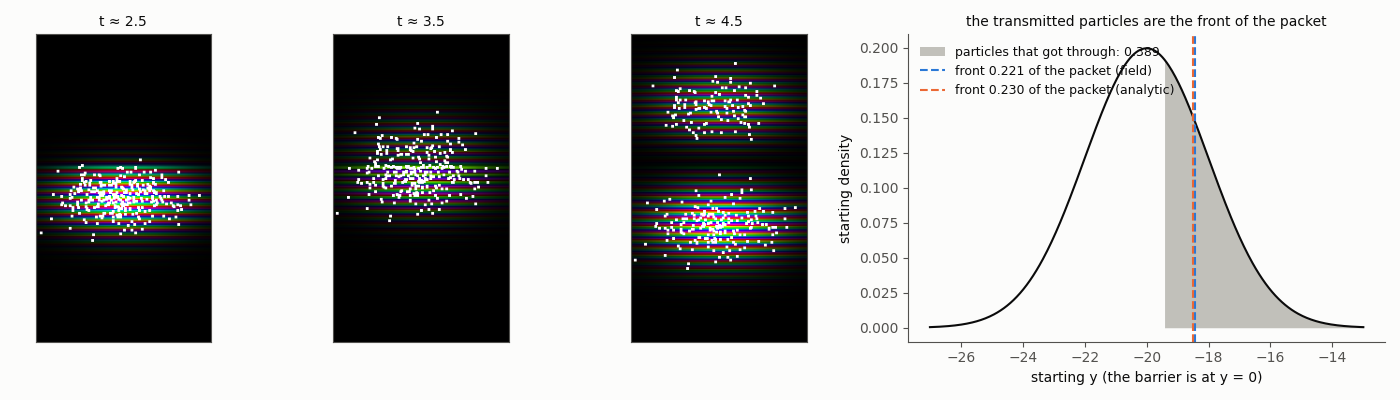
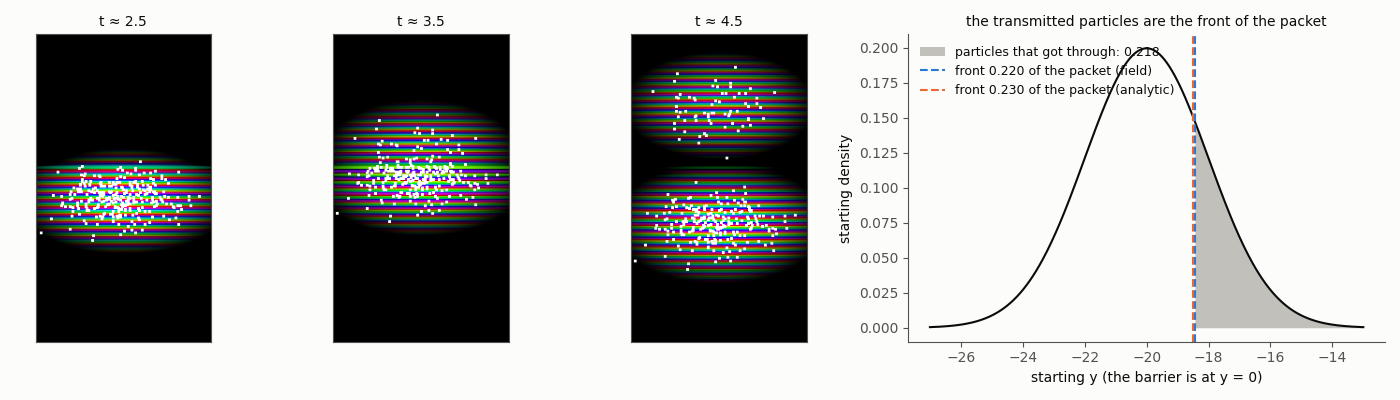
docs: results with the corrected guidance, numerics and live viewer

diff --git a/README.md b/README.md
@@ -62,20 +62,17 @@ sinc² envelope, times cos²θ for a cylindrical wave meeting a flat
 screen; with d/a = 4 there are orders at sin θ = m/4, at x = 0, ±7.7,
 ±17.2 and ±33.8.
 
-With 60000 particles, 7130 (0.1188) reach the screen against 0.1199 of
+With 60000 particles, 7066 (0.1178) reach the screen against 0.1195 of
 the probability, and the rest reflect. The current follows the
 Fraunhofer curve to 2.8% of the peak, rms, with its maxima at 0, ±7.6,
 ±16.4 and ±30.8 where the curve's are (the envelope pulls them in from
 the grating angles). Summed over each order the current is within 10%
 of the curve's in orders 0 to 2 and 28% above it in the faint third.
-The arrivals match the current in the first order to 3% and fall 12%
-and 20% short in the second and third; the central fringe gets 22% too
-many, all of them in the one bin just right of the axis. Those
-particles started in front of the wall, within a tenth of a wavelength
-of the right slit's inner edge, slid into the slit along the wall and
-then hugged the axis; that is the wall problem below. Of 20000
-classical particles, 2545 (0.127, the beam's share over the two slits
-is 0.126) arrive, every one within |x| < 3.
+The arrivals match the current to 1.5% in every order up to the
+second and to 7% in the faint third, 2.1% of the peak rms over the
+whole screen; no single bin is off by more than 6%. Of 20000 classical
+particles, 2545 (0.127, the beam's share over the two slits is 0.126)
+arrive, every one within |x| < 3.
 
 The figure at the top shows the quantum trails over the time-integrated
 density, the classical trails, and the screens. The quantum arrivals
@@ -107,14 +104,12 @@ dotted in the figure, and side lobes near x = ±30.
 
 ![Single slit: trails and the screen](images/single-slit.png)
 
-With 40000 particles, 5029 (0.1257) reach the screen against 0.1277
+With 40000 particles, 5097 (0.1274) reach the screen against 0.1271
 of the probability. The current follows the Fraunhofer curve to 1.8% of
 the peak, rms over the screen, with its minimum at x = 18.0 against
 17.2 (one bin of 0.8) where it falls to 0.7% of the peak, and side
 lobes within 4% of the curve's. The arrivals match the central lobe to
-2%, but the side lobes get 239 particles where the current predicts
-312: the particles that end there pass closest to the slit's edges,
-where the wall problem below most likely costs some of them.
+0.3% and the side lobes to 4%.
 
 ### Barrier
 
@@ -129,27 +124,24 @@ easily.
 ![Barrier: the packet splits; the front of it gets through](images/barrier.png)
 
 The analytic transmission is 0.2268 at k = 2π and 0.2301 averaged
-over the packet. The field agrees: 0.2210 of the probability crosses
-the screen, 4% below the average. The particles do not: 1554 of 4000,
-0.389, get through. This is a numerical failure of the guidance, not of
-the theory. In front of the barrier the incident and reflected waves
-(|r| = 0.88) make a standing wave whose near-nodes are about 0.02 wide,
-a fifth of a cell, where the true velocity reaches about 100; the
-phase-difference velocity saturates at π/(2dx) = 16 and smears the
-jump over the neighbouring cells, so particles cross the standing wave
-too fast. In a separate run of the barrier alone, halving the cells
-brings the particles from 0.379 to 0.263 against the field's 0.228;
-taking the velocity as j/ρ instead undershoots, 0.142 and 0.205.
+over the packet. The field agrees: 0.2199 of the probability crosses
+the screen, 4% below the average, the grid's slightly heavier
+effective mass along the motion accounting for most of the gap. The
+particles agree with the field: 873 of 4000, 0.2182, get through.
 
 The figure shows the packet splitting and, on the right, where the
 transmitted particles started. In one dimension Bohmian trajectories
 cannot cross, and this barrier is uniform in x, so the particles that
 get through are exactly the ones that started at the front of the
 packet. Which particle tunnels is decided by where it starts, not by
-any chance at the barrier. That order survives the faulty velocities:
-every transmitted particle started at y ≥ −19.399 and every reflected
-one at y ≤ −19.402, the front 39% of the packet. With the right
-guidance the split would sit at −18.46, the front 22%.
+any chance at the barrier: every transmitted particle started at
+y ≥ −18.432 and every reflected one at y ≤ −18.435, and the field's
+transmission puts the split at −18.46. Getting this right needed the
+velocity estimate described under Numerics: in front of the barrier
+the incident and reflected waves (|r| = 0.88) make a standing wave
+whose near-nodes are a fifth of a cell wide, and a velocity
+interpolated between cells let particles cross them, 0.389 of them
+getting through.
 
 ### Disc
 
@@ -172,13 +164,13 @@ shadow |x| < 4 where the field puts 4.0%, which is about what to expect
 of Kirchhoff's boundary conditions on an obstacle only eight
 wavelengths across.
 
-Quantum particles fill the shadow as the current does: 13282 of 20000
-(0.664) reach the screen against 0.659 of the probability, and 4.1% of
-the arrivals land inside |x| < 4. But almost none land on the bright
-line: 10 in the four bins around the axis, where the current puts 105.
-That is the wall problem below. The classical particles cast a sharp
-shadow: 12222 (0.611; the Gaussian beam has 0.617 outside |x| < 4)
-reach the screen, none inside |x| < 4.
+Quantum particles fill the shadow as the current does: 13095 of 20000
+(0.6548) reach the screen against 0.6559 of the probability, 3.9% of
+the arrivals land inside |x| < 4 against 4.0% of the current, and the
+four bins around the axis get 86% of the particles the current puts
+there. The classical particles cast a sharp shadow: 12222 (0.611; the
+Gaussian beam has 0.617 outside |x| < 4) reach the screen, none inside
+|x| < 4.
 
 ### Harmonic trap and ground state
 
@@ -218,10 +210,8 @@ parallel to them.
 
 ![Packet in a box](images/box.png)
 
-The norm ends at 0.9990 after t = 6 with nothing absorbing it. But
-1.7% of the particles end in or beside a wall, where only 0.43% of the
-probability is, and most of those are inside the wall itself. That is
-the wall problem described below.
+The norm ends at 0.9990 after t = 6 with nothing absorbing it. 0.8%
+of the particles end beside a wall, where 0.43% of the probability is.
 
 A free packet 1.5 wide crosses the domain and spreads as
 σ(t) = σ₀√(1 + (t/2σ₀²)²); each Bohmian particle keeps its place in the
@@ -236,30 +226,36 @@ k·dx = 0.63 the fourth-order Laplacian's dispersion has curvature
 0.976 instead of 1, an effective mass 2.5% heavier along the motion,
 which predicts 2.4613.
 
-### Known problems
+### Numerics
 
-Two faults in the guidance velocity, both in `src/wave.rs`, show in
-these runs.
+The guiding velocity is the probability current over the density,
+each interpolated between the four surrounding cells before dividing,
+with fourth order differences for the gradient so a plane wave at ten
+cells per wavelength comes out within 0.3%. Interpolating a velocity
+computed per cell instead, or the phase difference between
+neighbouring cells, smooths over the near-nodes of standing waves,
+where the density dips to nearly zero within a fraction of a cell and
+the velocity must soar to turn the particle back; particles then cross
+them, and the barrier's particle transmission came out 0.389 against
+the field's 0.220. Particles move in substeps of at most a quarter
+cell for the same reason. Where the wave meets a wall ψ is zero and so
+is the velocity. What remains is the grid's dispersion: at k·dx = 0.63
+the Laplacian's curvature is 0.976 instead of 1, an effective mass
+2.5% heavier along the motion, which the free packet and the barrier
+both show. Halving the cells would quarter that.
 
-Walls hand out spurious velocities. Wall cells hold signed zeros (the
-step multiplies them by 0), and the phase difference across a wall's
-edge is an `atan2` of products with those zeros. When the second
-argument sums to −0 the `atan2` returns ±π instead of 0: a velocity of
-±π/(2dx) = 16 normal to the wall, in up to a quarter of the cells along
-a wall at any moment. Particles within half a cell of a wall get
-pushed into it and freeze there, or slide along it; the trails show
-them as streaks on the walls' faces. In the box 1.6% of the particles
-end inside the walls; on the disc 2% of them stick, and the bright
-line on its axis, which is fed by the wave that skims the disc, gets
-almost none of its particles. Adding `+ 0.0` to the `atan2`'s second
-argument turns −0 into +0; with that change, tried outside the solver,
-no particle enters the box's walls.
+## Live viewer
 
-Near-nodes are too narrow for the grid. Where a wave meets its own
-reflection the density dips to nearly zero over a fraction of a cell
-and the true velocity spikes; the phase difference over two cells
-smears the spike, so particles cross standing waves too fast. The
-barrier shows it worst (above). The slits and the disc reflect most of
-their wave too, but there the transmitted particles come from the
-middle of the beam, and the total arrivals still match the current to
-within 2%.
+```
+cargo run --release --bin live
+```
+
+The side panel picks the experiment, the particle count, quantum or
+classical particles, the grid size (256, 512 or 1024), the replay
+speed in time units per second, and the view: phase (hue) with
+density (brightness), density alone, or the density as a lit surface.
+Under the field, experiments with a screen plot the arrivals, the
+integrated current and the theory as they build up. `live --screenshot
+images/live.png` runs for two seconds, saves the window and quits.
+
+![The live viewer](images/live.png)
